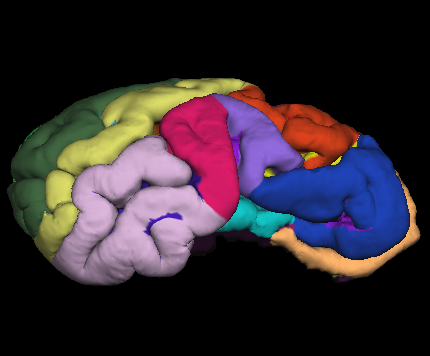
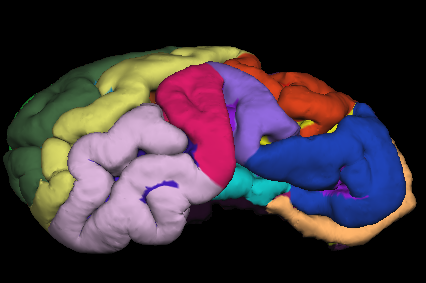
projects

diff --git a/fr/index.html b/fr/index.html
@@ -2834,7 +2834,7 @@
     
     
     <a href="/fr/project/sheep-cortex/"  class="card-image hover-overlay">
-      <img src="/fr/project/sheep-cortex/featured_hu5b6a9f515f1640e25ccffa1074aa3224_113633_cdbc5af05f153ad89d283efe82d630bb.png" data-src="/fr/project/sheep-cortex/featured_hu5b6a9f515f1640e25ccffa1074aa3224_113633_550x0_resize_lanczos_3.png" alt="Sheep Cortex" class="img-responsive lazyload">
+      <img src="/fr/project/sheep-cortex/featured_huecae6397ca131858f99cf86575240059_112734_724c1e67431c13c2a96e9458687dfea2.png" data-src="/fr/project/sheep-cortex/featured_huecae6397ca131858f99cf86575240059_112734_550x0_resize_lanczos_3.png" alt="Sheep Cortex" class="img-responsive lazyload">
     </a>
     
     <div class="card-text">

diff --git a/index.html b/index.html
@@ -2834,7 +2834,7 @@
     
     
     <a href="/project/sheep-cortex/"  class="card-image hover-overlay">
-      <img src="/project/sheep-cortex/featured_hu5b6a9f515f1640e25ccffa1074aa3224_113633_cdbc5af05f153ad89d283efe82d630bb.png" data-src="/project/sheep-cortex/featured_hu5b6a9f515f1640e25ccffa1074aa3224_113633_550x0_resize_lanczos_3.png" alt="Sheep Cortex" class="img-responsive lazyload">
+      <img src="/project/sheep-cortex/featured_huecae6397ca131858f99cf86575240059_112734_724c1e67431c13c2a96e9458687dfea2.png" data-src="/project/sheep-cortex/featured_huecae6397ca131858f99cf86575240059_112734_550x0_resize_lanczos_3.png" alt="Sheep Cortex" class="img-responsive lazyload">
     </a>
     
     <div class="card-text">

diff --git a/fr/project/sheep-cortex/index.html b/fr/project/sheep-cortex/index.html
@@ -837,7 +837,7 @@
 </div>
 
 
-<div class="article-header article-container featured-image-wrapper mt-4 mb-4" style="max-width: 430px; max-height: 356px;">
+<div class="article-header article-container featured-image-wrapper mt-4 mb-4" style="max-width: 426px; max-height: 283px;">
   <div style="position: relative">
     <img src="/fr/project/sheep-cortex/featured.png" alt="" class="featured-image">
     <span class="article-header-caption">The Sheep Cortex</span>

diff --git a/project/sheep-cortex/index.html b/project/sheep-cortex/index.html
@@ -837,7 +837,7 @@
 </div>
 
 
-<div class="article-header article-container featured-image-wrapper mt-4 mb-4" style="max-width: 430px; max-height: 356px;">
+<div class="article-header article-container featured-image-wrapper mt-4 mb-4" style="max-width: 426px; max-height: 283px;">
   <div style="position: relative">
     <img src="/project/sheep-cortex/featured.png" alt="" class="featured-image">
     <span class="article-header-caption">The Sheep Cortex</span>
